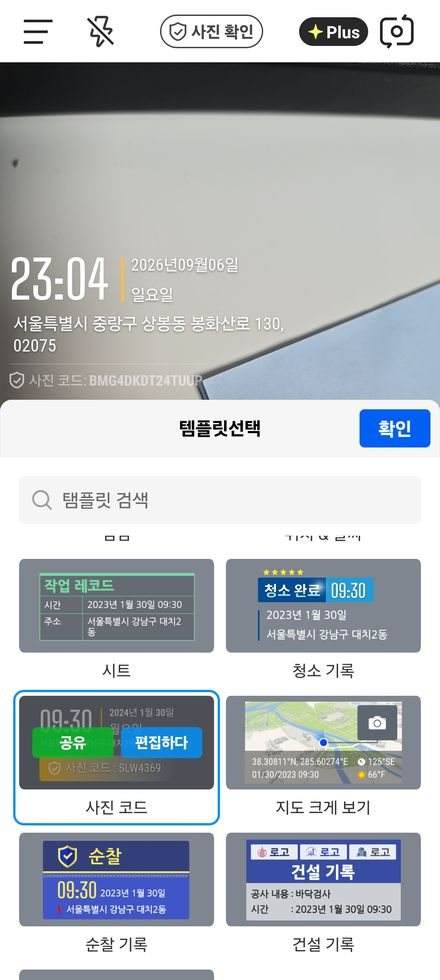
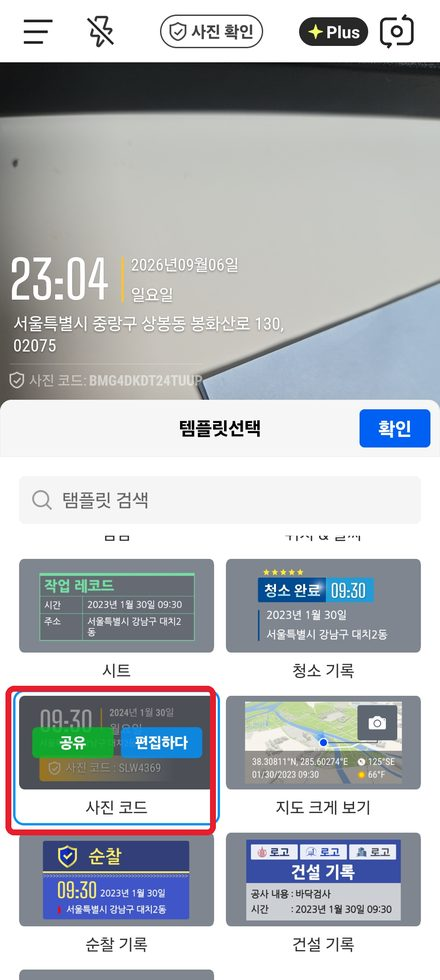
설명서 4.4.0 — 타임마크 설정 화면에 빨간 표시로 누를 곳 안내

Changed region(s): [[0.0, 0.6735, 0.5023, 0.8571]]

diff --git a/help.html b/help.html
@@ -1,5 +1,5 @@
 <!DOCTYPE html>
-<!-- 코드명: 혜원핏 학생 웹 설명서 | help.html | @version 4.3.0
+<!-- 코드명: 혜원핏 학생 웹 설명서 | help.html | @version 4.4.0
      수정요약: [2.0.1] 좁은 화면에서 표 글자·여백을 줄여 읽기 편하게.
      [2.0.0] 화면별 자세한 설명 6개(홈·인증·체력·성찰·기록·공지) 추가. 같은 날 유산소+근력을 각각 인정하도록
      규칙 변경 반영. 몰아서 하기=△, 앱 새로 시작, 추석 연휴 안내 추가.
@@ -303,12 +303,13 @@ ul.k li b{color:var(--pd)}
     <li>주소 · 지도 · 날씨 · 해발은 <b>꺼도 됩니다</b></li>
     <li><b>완성</b>을 누르면 설정 끝. 다음부터는 그대로 찍기만 하면 됩니다</li>
   </ul>
+  <p class="sub" style="margin:14px 0 0"><b style="color:#e0483d">빨간 테두리</b>가 눌러야 할 곳입니다.</p>
   <div class="tmshots">
     <figure><img src="tm-1-job.jpg" alt="업종 선택"><figcaption>① 업종은 <b>스킵</b></figcaption></figure>
     <figure><img src="tm-2-perm.jpg" alt="카메라 권한"><figcaption>② 카메라 <b>허용</b></figcaption></figure>
     <figure><img src="tm-3-template.jpg" alt="템플릿 선택"><figcaption>③ 템플릿 → <b>사진 코드</b></figcaption></figure>
-    <figure><img src="tm-4-edit.jpg" alt="템플릿 편집"><figcaption>④ <b>이름</b> 켜고 학번·이름</figcaption></figure>
-    <figure><img src="tm-5-done.jpg" alt="완성 화면"><figcaption>⑤ 이렇게 나오면 끝</figcaption></figure>
+    <figure><img src="tm-4-edit.jpg" alt="템플릿 편집"><figcaption>④ <b>이름</b> 켜고 학번·이름<br>시간·사진 코드도 켜기</figcaption></figure>
+    <figure><img src="tm-5-done.jpg" alt="완성 화면"><figcaption>⑤ 세 가지가 보이면 끝</figcaption></figure>
   </div>
 </section>
 
